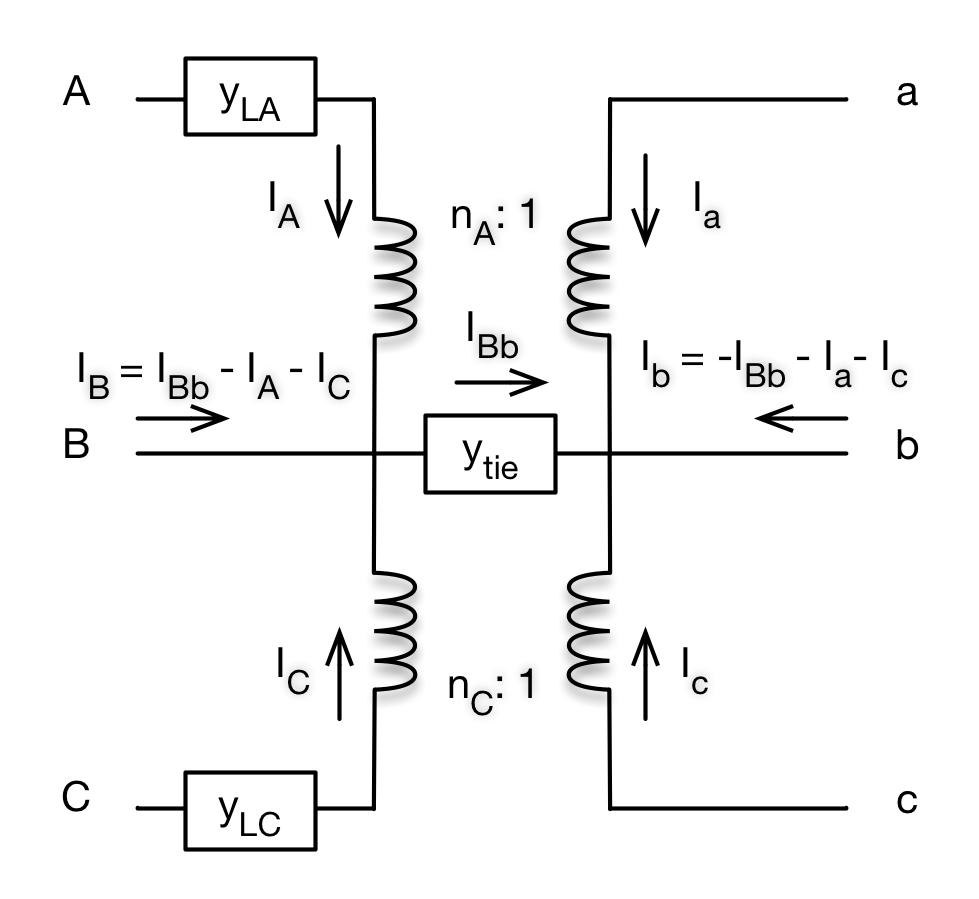
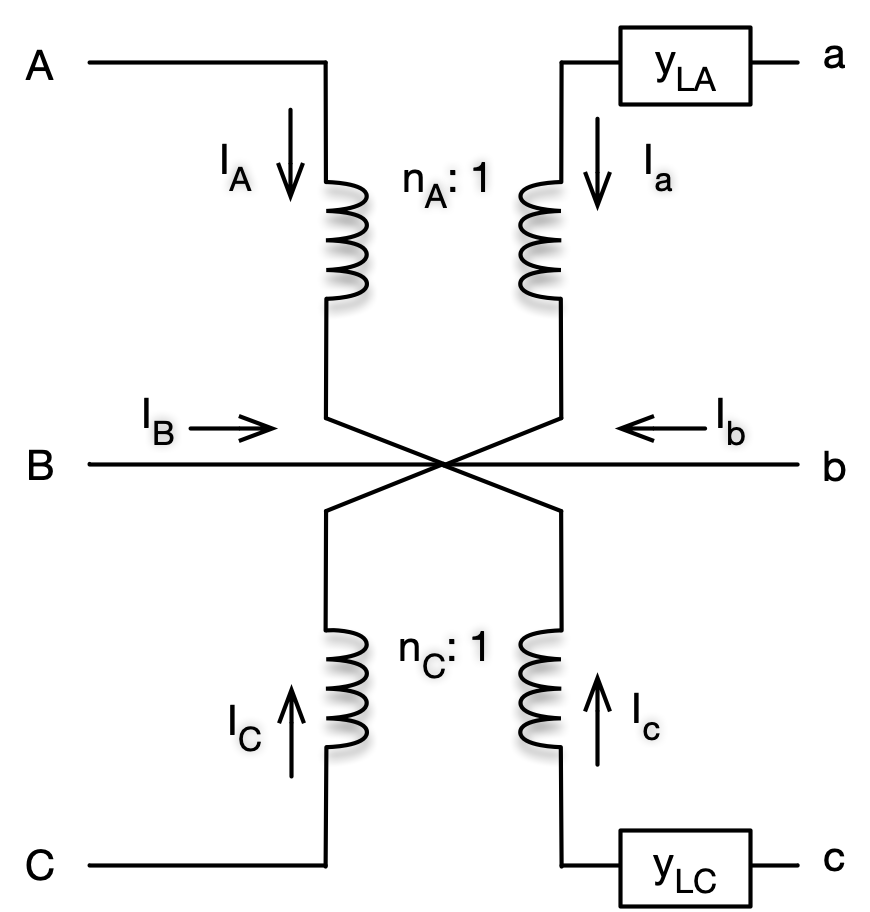
Update open delta notes.

diff --git a/docs/background/theory_notes.tex b/docs/background/theory_notes.tex
@@ -889,41 +889,29 @@ with the nodal admittance matrix being specified by the matrix on the right, inc
 \label{FIG_OPEN_DELTA}
 \end{center}
 \end{figure}
-We use the open delta model shown in \ref{FIG_OPEN_DELTA}. Note that the two middle phases are tied together using an admittance, to prevent a floating neutral. There are other grounding options available, for example, to ground the middle phase, and the model can be easily modified for these. Using Eq. (\ref{EQ_REAL_TRANS}) (and neglecting magnetising impedance),  we can derive the following equations:
+We use the open delta model shown in \ref{FIG_OPEN_DELTA}. Using the equations for an ideal transformer, Eq. (\ref{EQ_REAL_TRANS}) (and neglecting magnetising impedance),  we can derive the following equations:
 \begin{align}
 	I_A &= \frac{y_{LA}}{|n_A|^2}(V_A - V_B) - \frac{y_{LA}}{n_A^*}(V_a - V_b) \notag \\
-	&= V_A\left(\frac{y_{LA}}{|n_A|^2}\right) + V_B\left(-\frac{y_{LA}}{|n_A|^2}\right) + V_a\left(-\frac{y_{LA}}{n_A^*}\right) + V_b\left(\frac{y_{LA}}{n_A^*}\right) \notag \\
-	%
-	I_B &= y_\text{tie}(V_B - V_b) - I_A - I_C \notag \\
-	&= V_A\left(-\frac{y_{LA}}{|n_A|^2}\right) + V_B \left(y_\text{tie} + \frac{y_{LA}}{|n_A|^2} + \frac{y_{LC}}{|n_C|^2}\right) + V_C\left(-\frac{y_{LC}}{|n_C|^2}\right) \notag \\
-	&+ V_a\left(\frac{y_{LA}}{n_A^*}\right) + V_b\left(-y_\text{tie} -\frac{y_{LA}}{n_A^*} - \frac{y_{LC}}{n_C^*}\right) + V_c\left(\frac{y_{LC}}{n_C^*}\right) \notag \\
 	%
 	I_C &= \frac{y_{LC}}{|n_C|^2}(V_C - V_B) - \frac{y_{LC}}{n_C^*}(V_c - V_b) \notag \\
-	&= V_B\left(-\frac{y_{LC}}{|n_C|^2}\right) + V_C\left(\frac{y_{LC}}{|n_C|^2}\right) + V_b\left(\frac{y_{LC}}{n_C^*}\right) +  V_c\left(-\frac{y_{LC}}{n_C^*}\right) \notag \\
 	%
 	I_a &= -\frac{y_{LA}}{n_A}(V_A - V_B) + y_{LA}(V_a - V_b) \notag \\
-	&= V_A\left(-\frac{y_{LA}}{n_A}\right) + V_B\left(\frac{y_{LA}}{n_A}\right) + V_a\left(y_{LA}\right) + V_b\left(-y_{LA}\right)\notag \\
-	%
-	I_b &= -y_\text{tie}(V_B - V_b) - I_a - I_c \notag \\
-	&= V_A\left( \frac{y_{LA}}{n_A}\right) + V_B\left(-y_\text{tie} - \frac{y_{LA}}{n_A} - \frac{y_{LC}}{n_C}\right) + V_C\left( \frac{y_{LC}}{n_C}\right) \notag \\
-	&+ V_a\left(-y_{LA}\right) + V_b\left(y_\text{tie} + y_{LA} + y_{LC}\right) + V_c\left(-y_{LC}\right) \notag \\
 	%
 	I_c &= -\frac{y_{LC}}{n_C}(V_C - V_B) + y_{LC}(V_c - V_b) \notag \\
-	&= V_B\left(\frac{y_{LC}}{n_C}\right) + V_C\left( -\frac{y_{LC}}{n_C}\right) + V_b\left(-y_{LC}\right)  + V_c\left(y_{LC}\right)
 \end{align}
-Since $I = YV$, we can deduce the bus admittance matrix $Y$ as:
+We assume that both sides of of the transformer are ungrounded, and therefore there is no zero sequence current: $I_A + I_B + IC = I_a + I_b + I_c = 0$. Thus, $I_B = -I_A - I_C$, and $I_b = -I_a - I_c$. Since $I = YV$, we can deduce the bus admittance matrix $Y$ as:
 \begin{align}
 Y &= 
 \begin{bmatrix}
 	\frac{y_{LA}}{|n_A|^2} & -\frac{y_{LA}}{|n_A|^2} & 0 & -\frac{y_{LA}}{n_A^*} & \frac{y_{LA}}{n_A^*} & 0 \\
 	%
-	-\frac{y_{LA}}{|n_A|^2} & \left(y_\text{tie} + \frac{y_{LA}}{|n_A|^2} + \frac{y_{LC}}{|n_C|^2}\right) & -\frac{y_{LC}}{|n_C|^2} & \frac{y_{LA}}{n_A^*} & \left(-y_\text{tie} -\frac{y_{LA}}{n_A^*} - \frac{y_{LC}}{n_C^*}\right) & \frac{y_{LC}}{n_C^*} \\
+	-\frac{y_{LA}}{|n_A|^2} & \left(\frac{y_{LA}}{|n_A|^2} + \frac{y_{LC}}{|n_C|^2}\right) & -\frac{y_{LC}}{|n_C|^2} & \frac{y_{LA}}{n_A^*} & \left(-\frac{y_{LA}}{n_A^*} - \frac{y_{LC}}{n_C^*}\right) & \frac{y_{LC}}{n_C^*} \\
 	%
 	0 & -\frac{y_{LC}}{|n_C|^2} & \frac{y_{LC}}{|n_C|^2} & 0 & \frac{y_{LC}}{n_C^*} &  -\frac{y_{LC}}{n_C^*} \\
 	%
 	-\frac{y_{LA}}{n_A} & \frac{y_{LA}}{n_A} & 0 & y_{LA} & -y_{LA} & 0 \\
 	%
-	\frac{y_{LA}}{n_A} & \left(-y_\text{tie} - \frac{y_{LA}}{n_A} - \frac{y_{LC}}{n_C}\right) & \frac{y_{LC}}{n_C} & -y_{LA} & \left(y_\text{tie} + y_{LA} + y_{LC}\right) & -y_{LC} \\
+	\frac{y_{LA}}{n_A} & \left(-\frac{y_{LA}}{n_A} - \frac{y_{LC}}{n_C}\right) & \frac{y_{LC}}{n_C} & -y_{LA} & \left(y_{LA} + y_{LC}\right) & -y_{LC} \\
 	%
 	0 & \frac{y_{LC}}{n_C} & -\frac{y_{LC}}{n_C} & 0 & -y_{LC}\ & y_{LC}
 \end{bmatrix}
